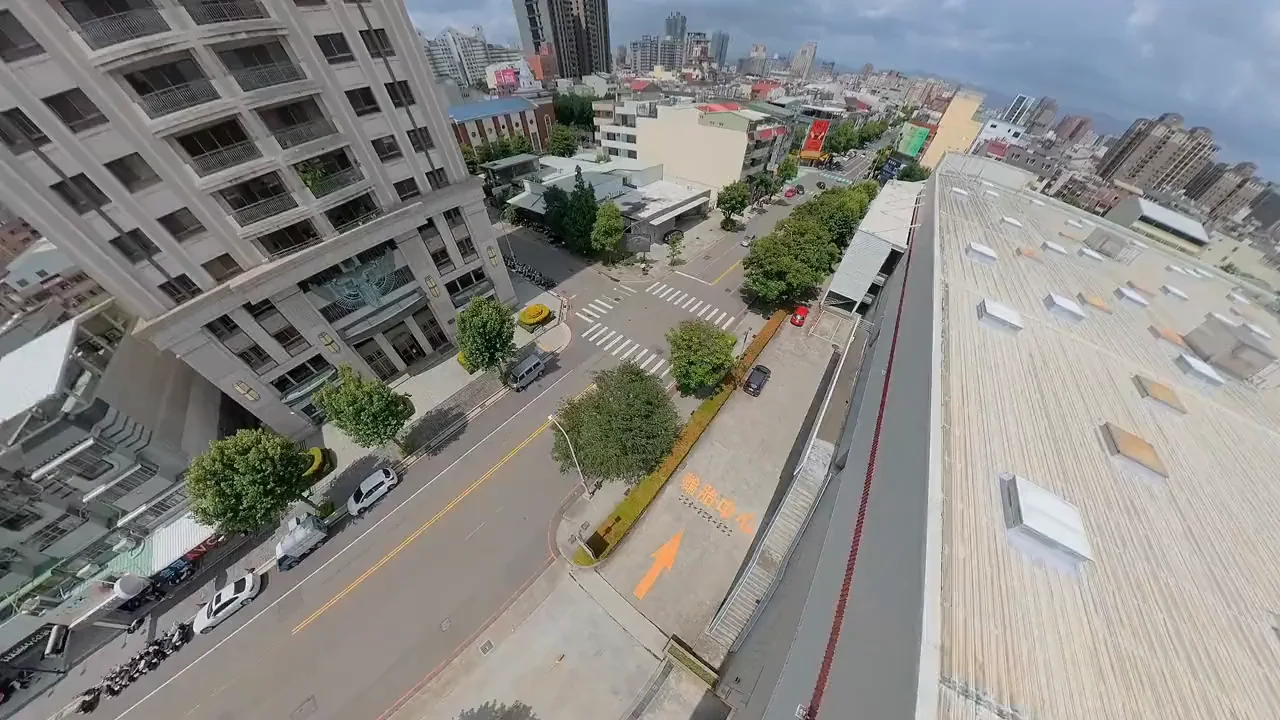
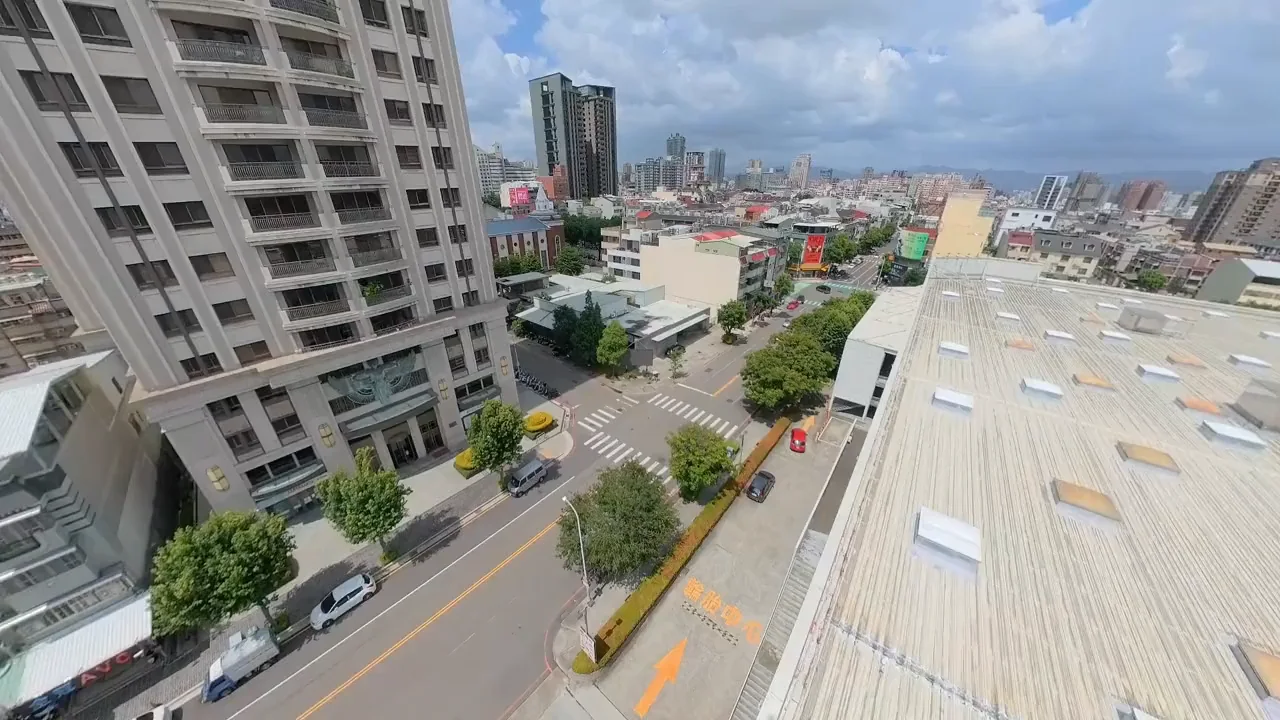
fix: restore scroll video after app switching

diff --git a/scrub-engine.js b/scrub-engine.js
@@ -195,7 +195,8 @@ function mountScrollWorld(container, config) {
     if (posterSrc) img.src = posterSrc;
     scene.appendChild(img); stage.appendChild(scene);
     s.el = scene; s.img = img; s.video = null; s.hasClip = false;
-    s.loading = false; s.ready = false; s.cur = 0; s.target = 0; s.visible = false;
+    s.loading = false; s.ready = false; s.resuming = false;
+    s.cur = 0; s.target = 0; s.visible = false;
   });
 
   // per-section copy / route / nav
@@ -282,6 +283,7 @@ function mountScrollWorld(container, config) {
       v.muted = true; v.playsInline = true; v.preload = 'auto';
       v.setAttribute('muted', ''); v.setAttribute('playsinline', '');
       v.dataset.blobUrl = blobUrl ? '1' : '0';
+      v.dataset.assetUrl = url;
       v.addEventListener('loadedmetadata', () => {
         // If the user scrolled while the media was loading, start at the newest
         // target immediately instead of easing forward from frame zero.
@@ -390,6 +392,54 @@ function mountScrollWorld(container, config) {
     requestAnimationFrame(raf);
   }
 
+  // Browsers suspend requestAnimationFrame and may park the media decoder while the
+  // page is hidden. Safari can then leave a video in a stale `seeking` state after the
+  // user returns from another app. Wake the decoder with a muted play/pause cycle and
+  // force one target-time sync whenever the page becomes active again.
+  let needsResumeGesture = false;
+  function syncSegment(s) {
+    if (!s.video || !s.ready || !Number.isFinite(s.video.duration)) return;
+    s.cur = s.target;
+    const t = clamp(s.target, 0, 0.999) * s.video.duration;
+    try { s.video.currentTime = t; } catch (e) {}
+  }
+
+  function wakeSegment(s) {
+    const v = s.video;
+    if (!v || s.resuming) return;
+    if (v.readyState < 1) {
+      try { v.load(); } catch (e) {}
+      return;
+    }
+
+    s.resuming = true;
+    const finish = () => {
+      try { v.pause(); } catch (e) {}
+      syncSegment(s);
+      s.resuming = false;
+    };
+
+    try {
+      const playAttempt = v.play();
+      if (playAttempt && playAttempt.then) playAttempt.then(finish).catch(finish);
+      else finish();
+    } catch (e) {
+      finish();
+    }
+  }
+
+  function resumeFromBackground() {
+    if (document.visibilityState === 'hidden' || stillsOnly) return;
+    ticking = false;
+    read();
+    needsResumeGesture = true;
+    SEGMENTS.forEach(wakeSegment);
+    requestAnimationFrame(() => requestAnimationFrame(() => {
+      SEGMENTS.forEach(syncSegment);
+      read();
+    }));
+  }
+
   // iOS needs a user gesture before a muted video will decode/paint reliably. On the
   // first touch we prime every loaded clip (muted play→pause) so the first seek is
   // instant instead of showing a blank frame. `userReady` also makes freshly-loaded
@@ -405,12 +455,20 @@ function mountScrollWorld(container, config) {
     catch (e) {}
   }
   function onFirstGesture() {
-    if (userReady) return;
-    userReady = true;
-    SEGMENTS.forEach(s => primeVideo(s.video));
+    if (!userReady) {
+      userReady = true;
+      SEGMENTS.forEach(s => primeVideo(s.video));
+    }
+    if (needsResumeGesture) {
+      needsResumeGesture = false;
+      SEGMENTS.forEach(wakeSegment);
+    }
   }
-  window.addEventListener('pointerdown', onFirstGesture, { once: true, passive: true });
-  window.addEventListener('touchstart', onFirstGesture, { once: true, passive: true });
+  window.addEventListener('pointerdown', onFirstGesture, { passive: true });
+  window.addEventListener('touchstart', onFirstGesture, { passive: true });
+  document.addEventListener('visibilitychange', resumeFromBackground);
+  window.addEventListener('pageshow', resumeFromBackground);
+  window.addEventListener('focus', resumeFromBackground);
 
   // Particles are a per-frame cost we can't afford alongside video scrubbing on a phone.
   seedParticles(particles, reduce || coarse);

diff --git a/index.html b/index.html
@@ -174,7 +174,6 @@
       hint: '向下捲動進入現場',
       nav: false,
       atmosphere: false,
-      streamVideo: true,
       diveScroll: 2.2,
       scrollMobileFactor: 1.25,
       crossfade: 0.08,
@@ -193,7 +192,6 @@
           eyebrow: '大型戶外電視・廣告招商',
           title: '讓品牌，站上城市視線',
           body: '真納視覺文化股份有限公司提供大型戶外電視廣告版位洽詢，讓品牌訊息進入城市日常。',
-          tags: ['攝影', '設計', '印刷'],
           cta: {
             primary: { label: '洽詢 [phone redacted]', href: 'tel:[phone redacted]' }
           }
@@ -209,8 +207,7 @@
         { selector: '.sw-copy__eyebrow', start: 0.07, end: 0.18 },
         { selector: '.sw-copy__title', start: 0.13, end: 0.28 },
         { selector: '.sw-copy__body', start: 0.2, end: 0.35 },
-        { selector: '.sw-copy__tags', start: 0.27, end: 0.43 },
-        { selector: '.sw-copy__cta', start: 0.34, end: 0.52 }
+        { selector: '.sw-copy__cta', start: 0.27, end: 0.46 }
       ];
       let scrollFramePending = false;
 

diff --git a/QA.md b/QA.md
@@ -4,14 +4,15 @@
 - 手機直式視窗：`390×844`，通過
 - 桌面影片：`1920×1080`、`30 fps CFR`、H.264、無音訊
 - 手機影片：`1280×720`、`30 fps CFR`、H.264、無音訊
-- 桌面影片容量：`18,259,058 bytes`（約 `17.4 MiB`），原網站版約 `30.9 MB`
-- 手機影片容量：`7,181,975 bytes`（約 `6.8 MiB`），原網站版約 `13.8 MB`
-- 桌面／手機編碼 SSIM：`0.983181` / `0.956811`
-- 影片時長：`7.933333 秒`
+- 桌面影片容量：`20,531,086 bytes`（約 `19.6 MiB`）
+- 手機影片容量：`9,380,797 bytes`（約 `8.9 MiB`）
+- 桌面／手機編碼 SSIM：`0.987981` / `0.973378`，均高於 `0.90`
+- 影片時長：桌面 `7.966667 秒`、手機 `7.966016 秒`
+- 影片編碼：桌面 `CRF 20`、手機 `CRF 23`；兩者皆未套用銳化濾鏡
 - 桌面影片載入：通過，瀏覽器 `readyState=4`
 - 手機影片載入：通過，使用 `assets/vid/city-flight-m.mp4`
 - 手機播放方式：與電腦版相同，影片 `currentTime` 跟隨捲動
-- 影片載入方式：使用 HTTP Range 直接串流，不等待完整 Blob 下載
+- 影片載入方式：使用 Blob URL 掛載，不依賴主機 HTTP Range，避免背景切換後串流 seek 失效
 - 載入海報：固定不位移、不縮放；影片可用後直接對齊當下捲動時間
 - 手機水平取景：固定向右補償 `11.5vw`，讓電視視覺中心對齊畫面中心
 - 手機水平位置：起點／中段／結尾皆使用同一固定補償，無動態左右追蹤
@@ -20,13 +21,17 @@
 - `390×844` 電話按鈕／提示間距：約 `54 px`，`overlaps=false`
 - `375×667` 電話按鈕／提示間距：約 `30 px`，`overlaps=false`
 - 手機文案層級間距：統一為 `20 px`
-- 手機與電腦版文案退場順序：編號／眉題 → 主標題 → 說明 → 服務標籤 → 紅色電話按鈕
+- 服務標籤：電腦版與手機版均已移除，DOM 不建立空白標籤容器
+- 移除標籤後內文／CTA 間距：桌面 `28 px`、手機 `20 px`，無空白區塊
+- 手機與電腦版文案退場順序：編號／眉題 → 主標題 → 說明 → 紅色電話按鈕
 - 手機與電腦版背景漸層：捲動進度 `16%` 開始淡出，`58%` 完全退場
 - 手機與電腦版右側紅色邊線：與漸層同步淡出，`58%` 完全消失
 - 場景導覽紅點與「大型戶外電視」標籤：手機與電腦版均移除
 - 漸層實測：電腦版 `40% = 0.395`、`60% = 0`；手機版 `40% = 0.391`、`60% = 0`
-- 電腦版捲動進度 `23%`：主標題 `0.257`、說明 `0.894`、標籤與電話 `1`
-- 電腦版捲動進度 `40%`：說明 `0`、標籤 `0.092`、電話 `0.741`
+- 桌面初次載入：捲動 `32%` 時影片時間到達 `2.601 秒`
+- 切換背景再回前景：`visibilityState` 正確由 `visible → hidden → visible`；繼續捲動到 `70%` 後影片時間到達 `5.467 秒`，`seeking=false`
+- 後續訪問：同分頁重新載入後，捲動 `48%` 時影片時間到達 `3.843 秒`，`readyState=4`、`seeking=false`
+- 手機捲動：`390×844` 捲動 `66%` 時使用 `city-flight-m.mp4`，影片時間到達 `5.147 秒`
 - 手機影片尺寸：固定填滿視窗，捲動時不放大、不縮小
 - 最後畫面：大型戶外電視置中，主要看板面積保留
 - 最後畫面水平位置：維持固定右移補償

diff --git a/asset-manifest.md b/asset-manifest.md
@@ -6,17 +6,19 @@
 - 客戶：`真納視覺文化股份有限公司`
 - 招商電話：`04-2472-2099`
 - 視覺主色：`#ff2b2b`
-- 原始檔：`/Users/ianchen/Desktop/Timeline 2.mov`
+- 原始檔：`/Users/ianchen/Desktop/Veo1.mov`
 - 工作副本：`.work/source-city-flight.mov`
 - 正規化檔：`.work/clip-city-flight.mp4`
 - 桌面主檔：`assets/vid/city-flight.mp4`
 - 手機檔：`assets/vid/city-flight-m.mp4`
-- 桌面主檔規格：`CRF 23`、`GOP 8`、約 `17.4 MiB`
-- 手機檔規格：`CRF 26`、`GOP 4`、約 `6.8 MiB`
-- 網頁播放方式：HTTP Range 串流，`streamVideo: true`
+- 桌面主檔規格：`CRF 20`、`GOP 8`、不套用銳化濾鏡
+- 手機檔規格：`CRF 23`、`GOP 4`、不套用銳化濾鏡
+- 網頁播放方式：Blob URL 掛載，完整取得目前場景影片後提供穩定 seek，不依賴主機 HTTP Range
 - 桌面海報：`assets/city-flight-poster.webp`
 - 手機海報：`assets/city-flight-poster-m.webp`
 - 靜態 fallback：`assets/city-flight-still.webp`
 - 連接片：無
 - SSIM 接縫檢查：不適用，單一場景沒有相鄰接縫
-- 直式資產：未生成；手機使用 16:9 輕量版，直式視窗使用固定 `+11.5vw` 右移補償對齊電視，無動態左右位移或捲動縮放
+- 直式資產：未生成；手機使用 16:9 輕量版，直式視窗使用固定 `+11.5vw` 右移補償，無動態左右位移或捲動縮放
+- 前景恢復：監聽 `visibilitychange`、`pageshow`、`focus`，重新喚醒解碼器並同步目前捲動時間
+- 服務標籤：已移除「攝影、設計、印刷」，CTA 自動銜接內文，不保留空白容器